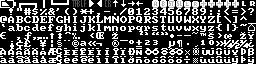
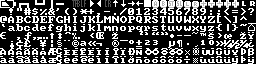
Renamed some I18n function names

diff --git a/doc/DevelopmentManual.htm b/doc/DevelopmentManual.htm
@@ -741,12 +741,12 @@ AnimationDescription HERO_ANIM =
             <h3>Setting active language</h3>
 
             <p>
-                You can set the active language using the <code>I18n_setLanguage</code> method. Each registered language
+                You can set the active language using the <code>I18n_setActiveLanguage</code> method. Each registered language
                 is identified by an integer in the order they were registered, starting with 0. By default, the first
                 registered language is used.
             </p>
 
-            <pre class="line-numbers"><code class="language-c">I18n_setLanguage(I18n_getInstance(), 0);</code></pre>
+            <pre class="line-numbers"><code class="language-c">I18n_setActiveLanguage(I18n_getInstance(), 0);</code></pre>
 
             <p>
                 For easier identification of your registered languages, you'll want to creating an enum with string
@@ -763,7 +763,7 @@ AnimationDescription HERO_ANIM =
                 the following.
             </p>
 
-            <pre class="line-numbers"><code class="language-c">I18n_setLanguage(I18n_getInstance(), LANGUAGE_DE);</code></pre>
+            <pre class="line-numbers"><code class="language-c">I18n_setActiveLanguage(I18n_getInstance(), LANGUAGE_DE);</code></pre>
 
 
             <!--------------------------------------------------------------------------------------------------------->

diff --git a/assets/fonts/_o/VBJaEngineDefaultFont.c b/assets/fonts/_o/VBJaEngineDefaultFont.c
@@ -7,7 +7,7 @@
 //	+ 256 tiles not compressed
 //	Total size: 4096 = 4096
 //
-//	Time-stamp: 2015-01-08, 18:57:33
+//	Time-stamp: 2015-01-10, 18:08:20
 //	Exported by Cearn's GBA Image Transmogrifier, v0.8.6
 //	( http://www.coranac.com/projects/#grit )
 //
@@ -16,16 +16,16 @@
 const unsigned int VBJaEngineDefaultFontTiles[1024] __attribute__((aligned(4)))=
 {
 	0x0003C3FF,0x3FF30FF3,0xFFF3FFF3,0xFFFF0003,0x0C000FFF,0xFC00FC00,0xFC03FC00,0x0F0F0C00,
-	0x00000000,0xFFC00000,0x03C0FFC0,0x03C003C0,0x00000000,0xFFFF0000,0x0000FFFF,0x00000000,
-	0x00000000,0x03FF0000,0x03C003FF,0x03C003C0,0x03C003C0,0x03C003C0,0x03C003C0,0x03C003C0,
-	0x03C003C0,0xFFC003C0,0x0000FFC0,0x00000000,0x00000000,0xFFFF0000,0x0000FFFF,0x00000000,
-	0x03C003C0,0x03FF03C0,0x000003FF,0x00000000,0x44441555,0x15444444,0x44444444,0x00001444,
-	0x01040504,0x05040104,0x01040104,0x00000114,0x00FC003C,0x0FFC03FC,0x00FC03FC,0x0000003C,
-	0x0FC00F00,0x0FFC0FF0,0x0FC00FF0,0x00000F00,0x11040514,0x05041104,0x11041104,0x00001114,
+	0x00000000,0xFFC00000,0x03C0FFC0,0x03C003C0,0x00000000,0x03FF0000,0x03C003FF,0x03C003C0,
+	0x03C003C0,0xFFC003C0,0x0000FFC0,0x00000000,0x03C003C0,0x03FF03C0,0x000003FF,0x00000000,
+	0x03C003C0,0x03C003C0,0x03C003C0,0x03C003C0,0x00000000,0xFFFF0000,0x0000FFFF,0x00000000,
+	0x00000000,0x00000000,0x00000000,0x00000000,0x44441555,0x15444444,0x44444444,0x00001444,
+	0x01040504,0x05040104,0x01040104,0x00000114,0x00F00030,0x0FF003F0,0x00F003F0,0x00000030,
+	0x03C00300,0x03FC03F0,0x03C003F0,0x00000300,0x11040514,0x05041104,0x11041104,0x00001114,
 	0x03F000C0,0x00C00FFC,0x00C000C0,0x000000C0,0x00C000C0,0x00C000C0,0x03F00FFC,0x000000C0,
 
 	0x03000000,0x3FFF0F00,0x03000F00,0x00000000,0x00300000,0x3FFF003C,0x0030003C,0x00000000,
-	0x00000000,0x00000000,0x00000000,0x00000000,0x3FBF0FFC,0x3EEF3EEF,0x3EEF3EAF,0x0AA82FFE,
+	0x3FFF3FFF,0x3FFF3FFF,0x3FFF3FFF,0x00003FFF,0x3FBF0FFC,0x3EEF3EEF,0x3EEF3EAF,0x0AA82FFE,
 	0x3FAF0FFC,0x3FAF3EEF,0x3FAF3EEF,0x0AA82FFE,0x3AAB0FFC,0x3EEB3EFB,0x3EEB3EEF,0x0AA82FFE,
 	0x3EEB0FFC,0x3EEB3EFB,0x3AEB3EEF,0x0AA82FFE,0x0FFC0000,0x3FEF3FEF,0x3EAF3FEF,0x0AA82FFE,
 	0x0FFC0000,0x3EEF3FAF,0x3EEF3FAF,0x0AA82FFE,0x03B003F0,0x3AAB3FBF,0x2BBA3FBF,0x02A003F0,

diff --git a/source/base/I18n.c b/source/base/I18n.c
@@ -88,13 +88,13 @@ char* I18n_getText(I18n this, int string)
 }
 
 // set the language
-void I18n_setLanguage(I18n this, u8 languageId)
+void I18n_setActiveLanguage(I18n this, u8 languageId)
 {
     this->ActiveLanguage = languageId;
 }
 
 // set the language by language name
-void I18n_setLanguageByName(I18n this, const char* lang)
+void I18n_setActiveLanguageByName(I18n this, const char* lang)
 {
     u8 i;
 
@@ -102,7 +102,7 @@ void I18n_setLanguageByName(I18n this, const char* lang)
     {
         if (0 == strcmp(this->languages[i]->name, lang))
         {
-            I18n_setLanguage(I18n_getInstance(), i);
+            I18n_setActiveLanguage(I18n_getInstance(), i);
 	        break;
         }
     }
@@ -124,6 +124,12 @@ LangDefinition * I18n_getLanguages(I18n this)
 u8 I18n_getLanguageCount(I18n this)
 {
     return this->languageCount;
+}
+
+// get the id of the currently active language
+u8 I18n_getActiveLanguage(I18n this)
+{
+    return this->ActiveLanguage;
 }
 
 // get the name of the currently active language

diff --git a/source/base/I18n.h b/source/base/I18n.h
@@ -74,11 +74,12 @@ I18n I18n_getInstance();
 
 void I18n_destructor(I18n this);
 char* I18n_getText(I18n this, int string);
-void I18n_setLanguage(I18n this, u8 languageId);
-void I18n_setLanguageByName(I18n this, const char* lang);
+void I18n_setActiveLanguage(I18n this, u8 languageId);
+void I18n_setActiveLanguageByName(I18n this, const char* lang);
 void I18n_registerLanguage(I18n this, const LangDefinition* langDefinition);
 LangDefinition * I18n_getLanguages(I18n this);
 u8 I18n_getLanguageCount(I18n this);
+u8 I18n_getActiveLanguage(I18n this);
 char* I18n_getActiveLanguageName(I18n this);
 
 
